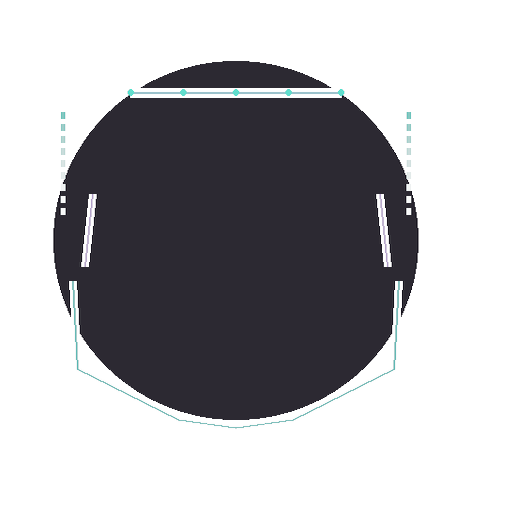
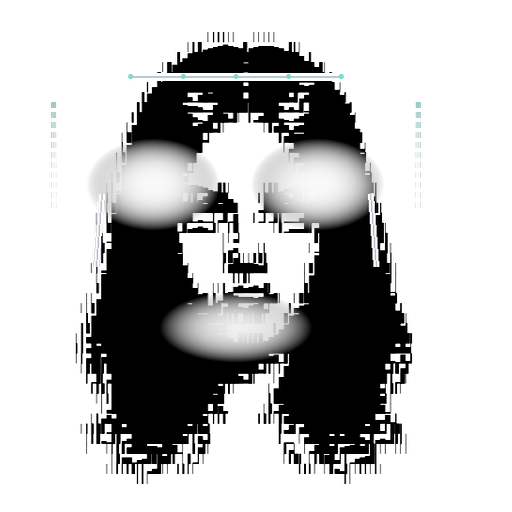
feat(layered): use reference portrait for face/hair/nose layers
Face layers now use the actual reference image with:
- Soft-masked eye and mouth regions (transparent for expression overlays)
- Cyberpunk tech overlays (forehead implant, cheekbone lines, temple circuits)
- Enhanced contrast for braille rendering
- Hair extracted from top 45% with soft bottom fade
- Nose soft-masked from center region

diff --git a/scripts/generate_layers.py b/scripts/generate_layers.py
@@ -175,15 +175,96 @@ def generate_face_layers(
     output_dir = Path(output_dir)
     w, h = canvas_size
 
-    # Build a detailed cyberpunk face base instead of using the raw reference
-    face_base = _draw_cyberpunk_face(canvas_size)
+    ref = reference.convert("RGBA").resize(canvas_size, Image.LANCZOS)
 
-    # face/
+    # Boost contrast for the reference to pop in braille rendering
+    from PIL import ImageEnhance
+    ref_enhanced = ImageEnhance.Contrast(ref.convert("RGB")).enhance(1.5)
+    ref_enhanced = ImageEnhance.Brightness(ref_enhanced).enhance(1.1)
+    ref = ref_enhanced.convert("RGBA")
+
+    # --- FACE layers: extract center face region, mask out eyes/mouth area ---
     face_dir = output_dir / "face"
     face_dir.mkdir(parents=True, exist_ok=True)
 
+    # The face layer is the full reference with the eye and mouth regions
+    # made transparent (those come from expression layers)
+    face_base = ref.copy()
+    face_arr = np.array(face_base)
+
+    # Mask out eye regions (will be drawn by eye expression layers)
+    eye_cy = int(h * 0.36)
+    eye_ry = int(h * 0.09)
+    left_cx = int(w * 0.33)
+    right_cx = int(w * 0.67)
+    eye_rx = int(w * 0.14)
+
+    for ecx in [left_cx, right_cx]:
+        y0 = max(0, eye_cy - eye_ry)
+        y1 = min(h, eye_cy + eye_ry)
+        x0 = max(0, ecx - eye_rx)
+        x1 = min(w, ecx + eye_rx)
+        # Soft edge mask using distance from ellipse center
+        for y in range(y0, y1):
+            for x in range(x0, x1):
+                dy = (y - eye_cy) / eye_ry
+                dx = (x - ecx) / eye_rx
+                dist = dx * dx + dy * dy
+                if dist < 1.0:
+                    # Fade alpha at edges
+                    fade = max(0, 1.0 - dist)
+                    face_arr[y, x, 3] = int(face_arr[y, x, 3] * (1 - fade * 0.85))
+
+    # Mask out mouth region
+    mouth_cy = int(h * 0.64)
+    mouth_hw = int(w * 0.16)
+    mouth_ry = int(h * 0.07)
+    my0 = max(0, mouth_cy - mouth_ry)
+    my1 = min(h, mouth_cy + mouth_ry)
+    mx0 = max(0, w // 2 - mouth_hw)
+    mx1 = min(w, w // 2 + mouth_hw)
+    for y in range(my0, my1):
+        for x in range(mx0, mx1):
+            dy = (y - mouth_cy) / mouth_ry
+            dx = (x - w // 2) / mouth_hw
+            dist = dx * dx + dy * dy
+            if dist < 1.0:
+                fade = max(0, 1.0 - dist)
+                face_arr[y, x, 3] = int(face_arr[y, x, 3] * (1 - fade * 0.7))
+
+    face_base = Image.fromarray(face_arr, "RGBA")
+
+    # Add cyberpunk tech overlays to the face
+    draw = ImageDraw.Draw(face_base)
+
+    # Forehead implant line
+    imp_y = int(h * 0.15)
+    imp_w = int(w * 0.22)
+    _draw_glow_line(draw,
+        [(w // 2 - imp_w, imp_y), (w // 2 + imp_w, imp_y)],
+        (0, 160, 200, 140), (0, 200, 255, 60), glow_radius=3, width=2)
+    for dx in [-imp_w, -imp_w // 2, 0, imp_w // 2, imp_w]:
+        draw.ellipse([w // 2 + dx - 2, imp_y - 2, w // 2 + dx + 2, imp_y + 2],
+                     fill=(0, 255, 220, 180))
+
+    # Cheekbone implant lines
+    for side in [-1, 1]:
+        cx_chk = w // 2 + side * int(w * 0.28)
+        _draw_glow_line(draw,
+            [(cx_chk, int(h * 0.38)), (cx_chk + side * 6, int(h * 0.52))],
+            (80, 0, 180, 120), (120, 0, 255, 60), glow_radius=2, width=2)
+
+    # Temple circuits
+    for side in [-1, 1]:
+        tx = w // 2 + side * int(w * 0.38)
+        for i, ty in enumerate(range(int(h * 0.20), int(h * 0.40), 10)):
+            alpha = 160 - i * 18
+            draw.rectangle([tx - 2, ty, tx + 2, ty + 5],
+                          fill=(0, 200, 180, max(30, alpha)))
+
     face_base.save(face_dir / "face_center.png")
-    # Angle variants: shift + slight perspective
+
+    # Angle variants
     for name, x_off, scale_x in [
         ("face_left15.png", -20, 0.94),
         ("face_right15.png", 20, 0.94),
@@ -198,20 +279,60 @@ def generate_face_layers(
         shifted.paste(face_base, (0, y_off), face_base)
         shifted.save(face_dir / name)
 
-    # hair/
+    # --- HAIR layers: extract top portion of reference ---
     hair_dir = output_dir / "hair"
     hair_dir.mkdir(parents=True, exist_ok=True)
-    hair_base = _draw_cyberpunk_hair(canvas_size)
+
+    # Hair = top 45% of the reference with soft bottom fade
+    hair_region = ref.copy()
+    hair_arr = np.array(hair_region)
+    fade_start = int(h * 0.30)
+    fade_end = int(h * 0.45)
+    for y in range(fade_start, h):
+        if y < fade_end:
+            alpha_mult = 1.0 - (y - fade_start) / (fade_end - fade_start)
+        else:
+            alpha_mult = 0.0
+        hair_arr[y, :, 3] = (hair_arr[y, :, 3] * alpha_mult).astype(np.uint8)
+    hair_base = Image.fromarray(hair_arr, "RGBA")
+
     hair_base.save(hair_dir / "hair_center.png")
     for name, x_off in [("hair_left.png", -12), ("hair_right.png", 12)]:
         shifted = _blank_rgba(canvas_size)
         shifted.paste(hair_base, (x_off, 0), hair_base)
         shifted.save(hair_dir / name)
 
-    # nose/
+    # --- NOSE layers: extract small center region ---
     nose_dir = output_dir / "nose"
     nose_dir.mkdir(parents=True, exist_ok=True)
-    nose_base = _draw_cyberpunk_nose(canvas_size)
+
+    # Nose = small region at center, soft-masked
+    nose_base = _blank_rgba(canvas_size)
+    nose_region = ref.copy()
+    nose_arr = np.array(nose_region)
+    # Zero out everything except nose area
+    ny_center = int(h * 0.50)
+    nx_center = w // 2
+    nose_rx = int(w * 0.08)
+    nose_ry = int(h * 0.08)
+    for y in range(h):
+        for x in range(w):
+            dy = (y - ny_center) / nose_ry if nose_ry > 0 else 999
+            dx = (x - nx_center) / nose_rx if nose_rx > 0 else 999
+            dist = dx * dx + dy * dy
+            if dist > 1.0:
+                nose_arr[y, x, 3] = 0
+            elif dist > 0.6:
+                fade = (dist - 0.6) / 0.4
+                nose_arr[y, x, 3] = int(nose_arr[y, x, 3] * (1 - fade))
+    nose_base = Image.fromarray(nose_arr, "RGBA")
+
+    # Add subtle nose bridge highlight
+    draw = ImageDraw.Draw(nose_base)
+    _draw_glow_line(draw,
+        [(nx_center, int(h * 0.44)), (nx_center, int(h * 0.55))],
+        (0, 120, 110, 80), (0, 160, 150, 40), glow_radius=2, width=1)
+
     nose_base.save(nose_dir / "nose_center.png")
     for name, x_off in [("nose_left.png", -4), ("nose_right.png", 4)]:
         shifted = _blank_rgba(canvas_size)
